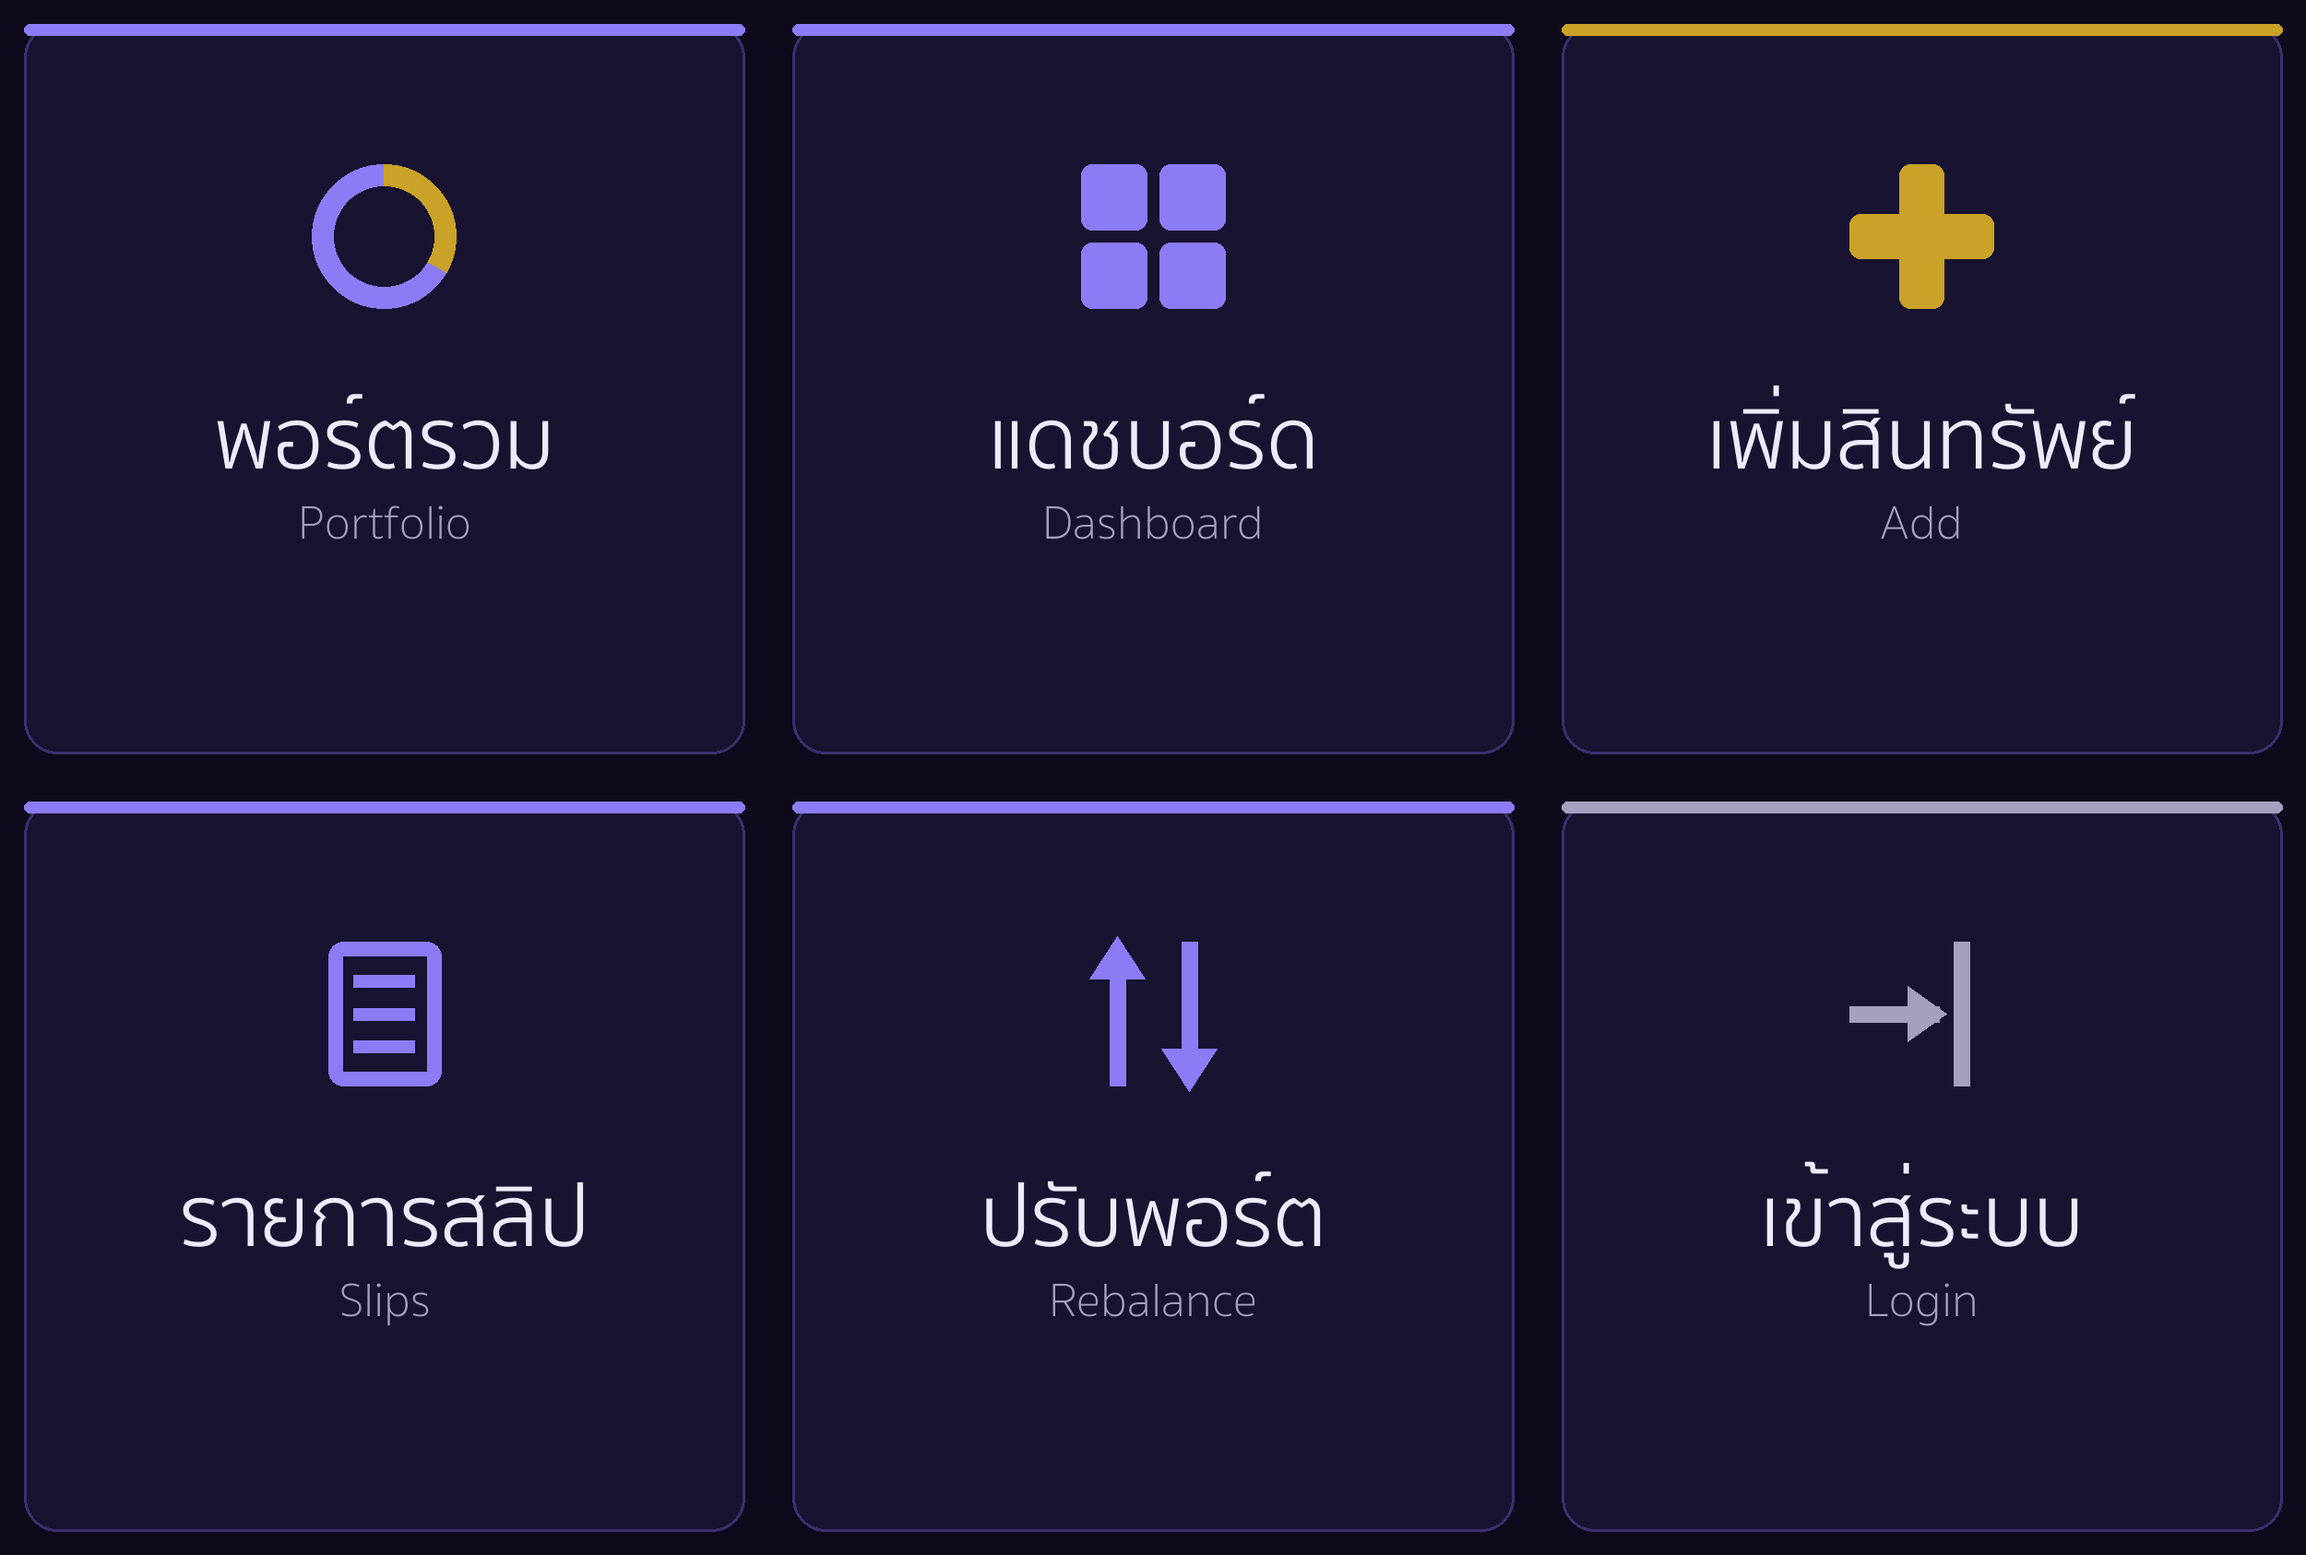
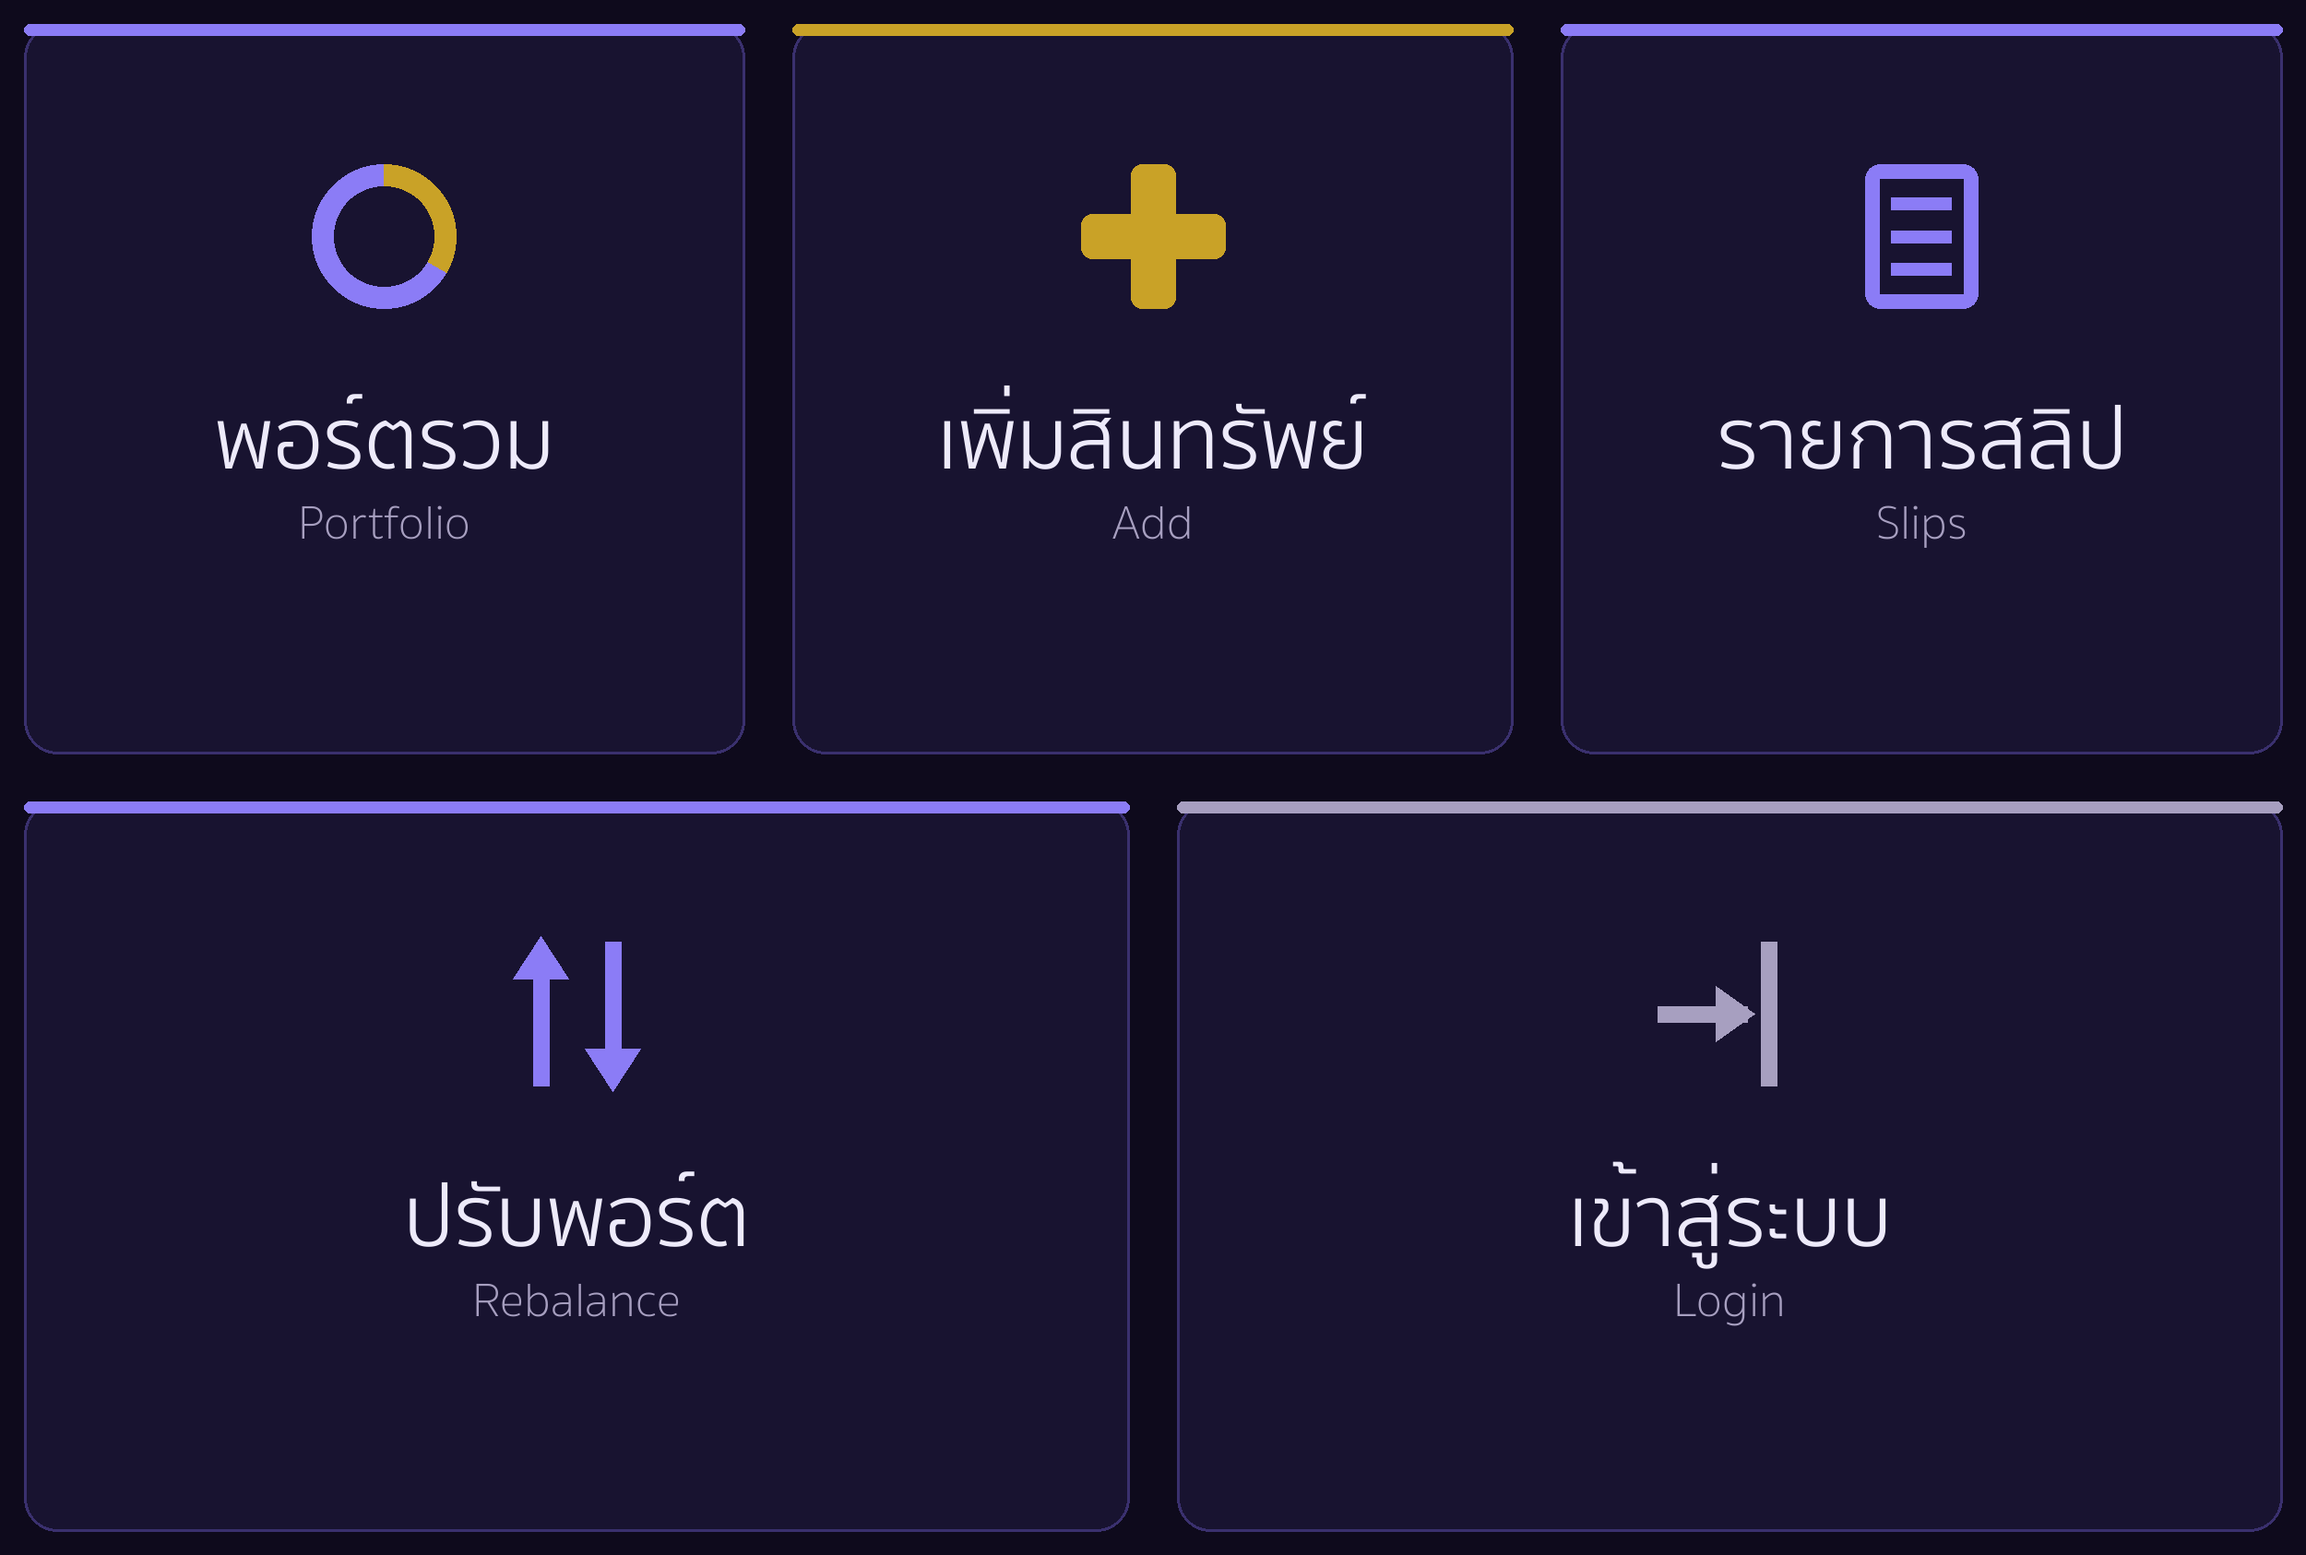
Remove dashboard; make portfolio (/) the post-login home
- Deleted app/dashboard page; login now redirects to / (both the already-logged-in
  guard and the SSO callbackUrl default).
- BottomNav drops the แดชบอร์ด tab (4 tabs: พอร์ต/เพิ่ม/นำเข้า/ปรับสมดุล).
- Rich menu rebuilt as 5 tiles (3 top + 2 wide bottom, no dashboard):
  พอร์ตรวม/เพิ่มสินทรัพย์/รายการสลิป/ปรับพอร์ต/เข้าสู่ระบบ; reinstalled on the OA.

tsc clean; / 200, /dashboard 404, /login 200.

diff --git a/project/4-build/wealthplaner/app/login/page.tsx b/project/4-build/wealthplaner/app/login/page.tsx
@@ -1,5 +1,5 @@
 // หน้าเข้าสู่ระบบ (F008) — server component
-// guard: ล็อกอินอยู่แล้ว → เด้งไป /dashboard (กันเห็นฟอร์ม login ซ้ำ + ย้อนกลับมาหน้านี้หลัง login)
+// guard: ล็อกอินอยู่แล้ว → เด้งไปหน้าพอร์ต (/) (กันเห็นฟอร์ม login ซ้ำ + ย้อนกลับมาหน้านี้หลัง login)
 // ฟอร์ม/ปุ่ม SSO เป็น client component แยก (LoginForm) เพราะต้องใช้ state + next-auth/react
 import { redirect } from 'next/navigation';
 import { auth } from '@/auth.ts';
@@ -9,7 +9,7 @@ export const runtime = 'edge'; // Cloudflare Pages (next-on-pages) — ใช้
 
 export default async function LoginPage() {
   const session = await auth();
-  if (session?.user) redirect('/dashboard'); // มี session แล้ว → ไป dashboard ไม่ต้องเห็นหน้า login
+  if (session?.user) redirect('/'); // มี session แล้ว → ไปหน้าพอร์ต ไม่ต้องเห็นหน้า login
 
   return <LoginForm />;
 }

diff --git a/project/4-build/wealthplaner/src/components/BottomNav.tsx b/project/4-build/wealthplaner/src/components/BottomNav.tsx
@@ -1,15 +1,14 @@
 'use client';
 
-// แถบนำทางล่าง (bottom navigation) — ปลายทางหลักของแอป 5 แท็บ
+// แถบนำทางล่าง (bottom navigation) — ปลายทางหลักของแอป 4 แท็บ
 // client component: ใช้ usePathname ไฮไลต์แท็บที่กำลังอยู่ · ซ่อนบนหน้า /login (ยังไม่ล็อกอิน)
 import Link from 'next/link';
 import { usePathname } from 'next/navigation';
-import { LayoutGrid, PieChart, Plus, FileUp, Scale, type LucideIcon } from 'lucide-react';
+import { PieChart, Plus, FileUp, Scale, type LucideIcon } from 'lucide-react';
 
 type Tab = { href: string; label: string; Icon: LucideIcon; accent?: boolean };
 
 const TABS: Tab[] = [
-  { href: '/dashboard', label: 'แดชบอร์ด', Icon: LayoutGrid },
   { href: '/', label: 'พอร์ต', Icon: PieChart },
   { href: '/add', label: 'เพิ่ม', Icon: Plus, accent: true },
   { href: '/import', label: 'นำเข้า', Icon: FileUp },

diff --git a/project/4-build/wealthplaner/app/login/LoginForm.tsx b/project/4-build/wealthplaner/app/login/LoginForm.tsx
@@ -45,9 +45,9 @@ export default function LoginForm() {
     }
 
     // Google / LINE — method ตรงกับ provider id ของ NextAuth → เด้งไป provider แล้วกลับ
-    // callbackUrl จาก query (เช่น /slips?claim=...) ถ้ามี, ไม่งั้น /dashboard
+    // callbackUrl จาก query (เช่น /slips?claim=...) ถ้ามี, ไม่งั้นไปหน้าพอร์ต (/)
     setPending(method);
-    const callbackUrl = new URLSearchParams(window.location.search).get('callbackUrl') || '/dashboard';
+    const callbackUrl = new URLSearchParams(window.location.search).get('callbackUrl') || '/';
     await naSignIn(method, { callbackUrl });
   }
 

diff --git a/project/4-build/wealthplaner/scripts/richmenu/make-image.py b/project/4-build/wealthplaner/scripts/richmenu/make-image.py
@@ -67,13 +67,14 @@ def ic_login(d, cx, iy, s, c):  # ลูกศรเข้าประตู
     d.polygon([(cx+s*0.25+8, iy), (cx+s*0.25-34, iy-30), (cx+s*0.25-34, iy+30)], fill=c)
     d.line([cx+s*0.55, iy-s, cx+s*0.55, iy+s], fill=c, width=18)
 
+# 5 ช่อง: แถวบน 3 (833/833/834) · แถวล่าง 2 (1250/1250) — ไม่มี dashboard
+# rect = (x0, y0, x1, y1) ในพิกัดเต็ม (ต้องตรงกับ areas ใน setup.sh)
 CELLS = [
-    (ic_donut,   "พอร์ตรวม",     "Portfolio", ACCENT),
-    (ic_grid,    "แดชบอร์ด",     "Dashboard", ACCENT),
-    (ic_plus,    "เพิ่มสินทรัพย์", "Add",       GOLD),
-    (ic_receipt, "รายการสลิป",   "Slips",     ACCENT),
-    (ic_swap,    "ปรับพอร์ต",     "Rebalance", ACCENT),
-    (ic_login,   "เข้าสู่ระบบ",   "Login",     MUTED),
+    (ic_donut,   "พอร์ตรวม",     "Portfolio", ACCENT, (0, 0, 833, 843)),
+    (ic_plus,    "เพิ่มสินทรัพย์", "Add",       GOLD,   (833, 0, 1666, 843)),
+    (ic_receipt, "รายการสลิป",   "Slips",     ACCENT, (1666, 0, 2500, 843)),
+    (ic_swap,    "ปรับพอร์ต",     "Rebalance", ACCENT, (0, 843, 1250, 1686)),
+    (ic_login,   "เข้าสู่ระบบ",   "Login",     MUTED,  (1250, 843, 2500, 1686)),
 ]
 
 f_th = font(92, index=1)
@@ -86,12 +87,9 @@ def center(cx, y, text, fnt, fill):
     l, t, r, b = d.textbbox((0, 0), text, font=fnt)
     d.text((cx - (r - l) / 2, y), text, font=fnt, fill=fill)
 
-cw, ch = W / COLS, H / ROWS
 pad = 26
-for i, (icon, th, en, accent) in enumerate(CELLS):
-    col, row = i % COLS, i // COLS
-    x0, y0 = col * cw + pad, row * ch + pad
-    x1, y1 = (col + 1) * cw - pad, (row + 1) * ch - pad
+for icon, th, en, accent, (rx0, ry0, rx1, ry1) in CELLS:
+    x0, y0, x1, y1 = rx0 + pad, ry0 + pad, rx1 - pad, ry1 - pad
     d.rounded_rectangle([x0, y0, x1, y1], radius=36, fill=CARD, outline=BORDER, width=3)
     d.rounded_rectangle([x0, y0, x1, y0 + 12], radius=6, fill=accent)
     cx = (x0 + x1) / 2
